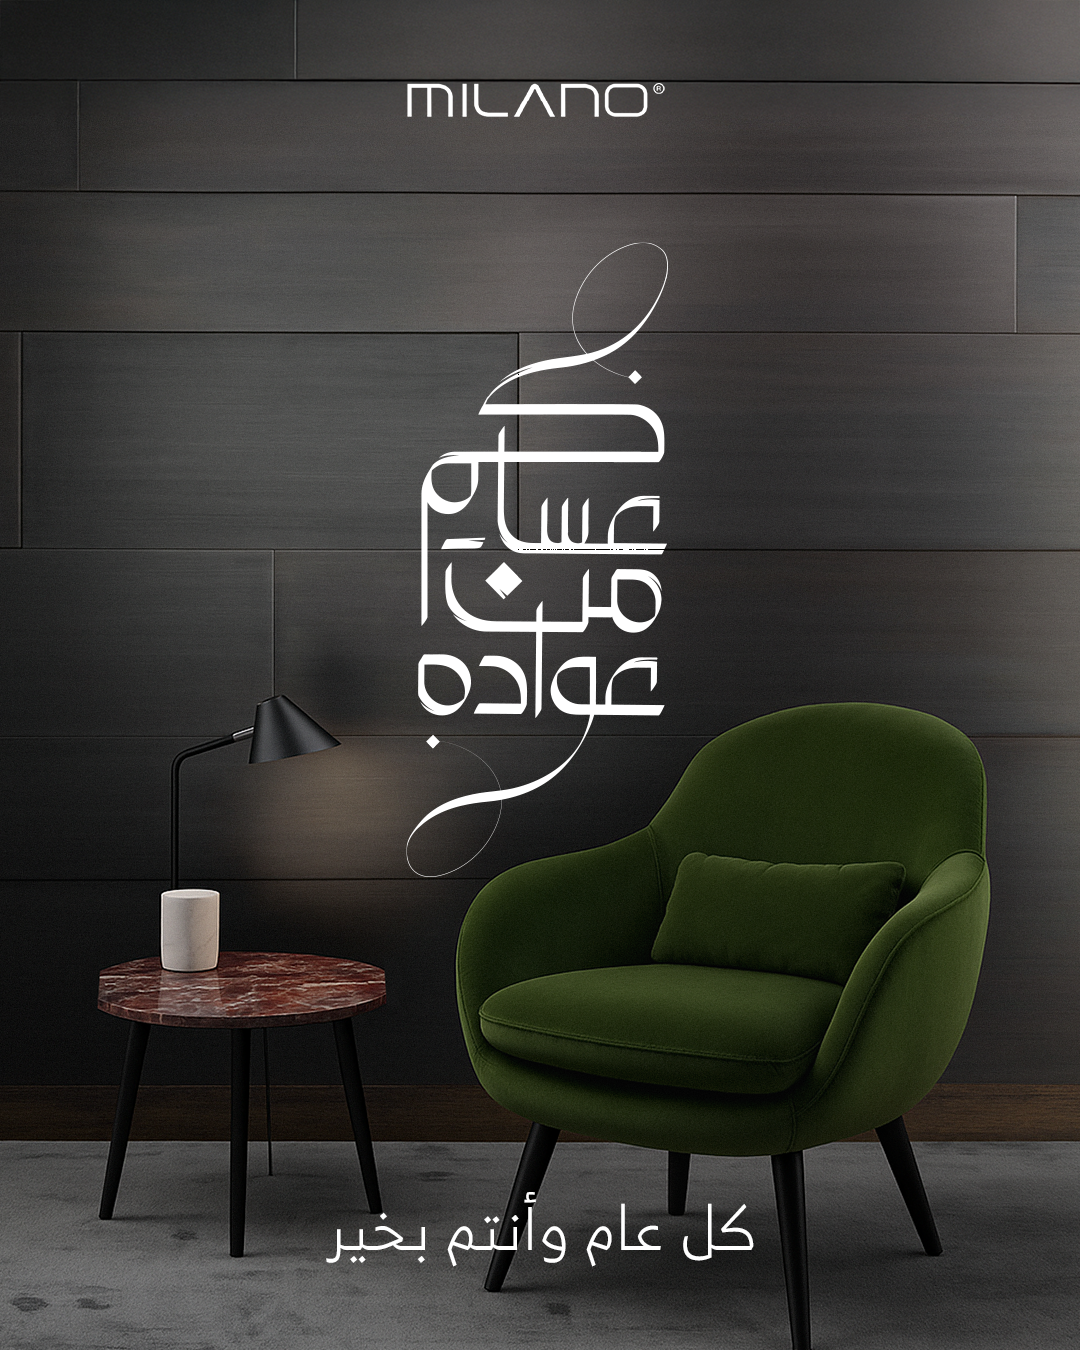
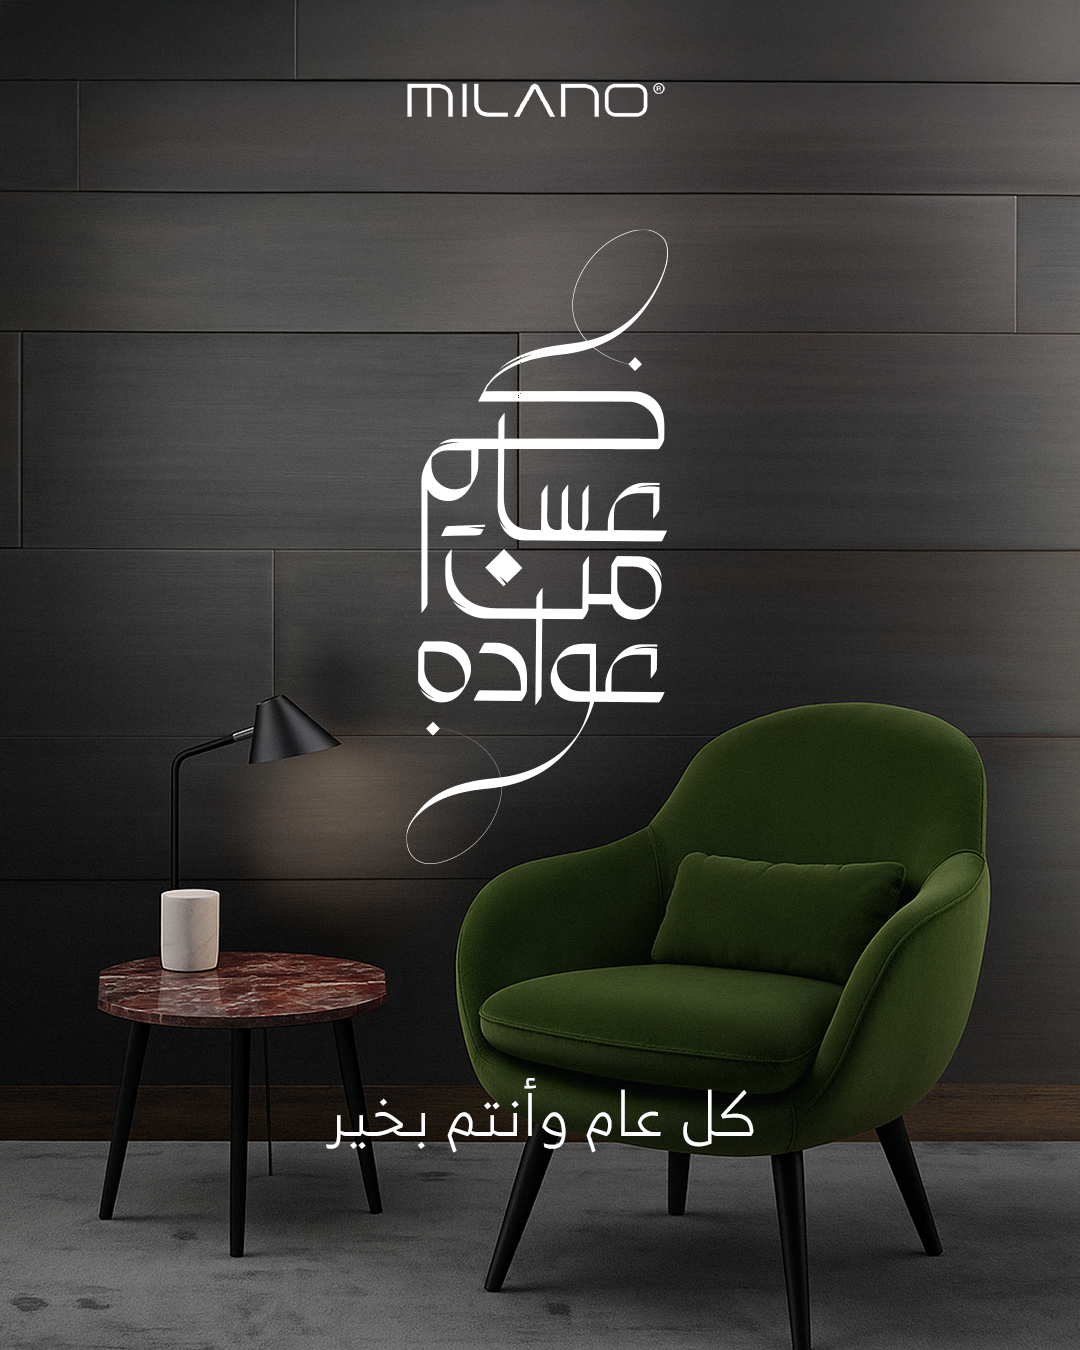
new imgs

diff --git a/assets/js/accenture.js b/assets/js/accenture.js
@@ -52,7 +52,7 @@ downloadCardButton.addEventListener('click', function(e){
 
     // center and make text
     textWidth = (imageWidth - imageWidth / 2)
-    textHeight = (imageHeight - 800); // Adjust this value as needed
+    textHeight = (imageHeight - 650); // Adjust this value as needed
     
     context.fillText(text, textWidth, textHeight);
 

diff --git a/assets/js/marsh.js b/assets/js/marsh.js
@@ -52,7 +52,7 @@ downloadCardButton.addEventListener('click', function(e){
 
     // center and make text
     textWidth = (imageWidth - imageWidth / 2)
-    textHeight = (imageHeight - 620); // Adjust this value as needed
+    textHeight = (imageHeight - 700); // Adjust this value as needed
     
     context.fillText(text, textWidth, textHeight);
 

diff --git a/assets/js/milano.js b/assets/js/milano.js
@@ -52,7 +52,7 @@ downloadCardButton.addEventListener('click', function(e){
 
     // center and make text
     textWidth = (imageWidth - imageWidth / 2)
-    textHeight = (imageHeight - 600); // Adjust this value as needed
+    textHeight = (imageHeight - 700); // Adjust this value as needed
     
     context.fillText(text, textWidth, textHeight);
 

diff --git a/assets/js/plant.js b/assets/js/plant.js
@@ -52,7 +52,7 @@ downloadCardButton.addEventListener('click', function(e){
 
     // center and make text
     textWidth = (imageWidth - imageWidth / 2)
-    textHeight = (imageHeight - 600); // Adjust this value as needed
+    textHeight = (imageHeight - 700); // Adjust this value as needed
     
     context.fillText(text, textWidth, textHeight);
 

diff --git a/assets/js/slic.js b/assets/js/slic.js
@@ -52,7 +52,7 @@ downloadCardButton.addEventListener('click', function(e){
 
     // center and make text
     textWidth = (imageWidth - imageWidth / 2)
-    textHeight = (imageHeight - 600); // Adjust this value as needed
+    textHeight = (imageHeight - 700); // Adjust this value as needed
     
     context.fillText(text, textWidth, textHeight);
 

diff --git a/assets/js/tamimi.js b/assets/js/tamimi.js
@@ -52,7 +52,7 @@ downloadCardButton.addEventListener('click', function(e){
 
     // center and make text
     textWidth = (imageWidth - imageWidth / 2)
-    textHeight = (imageHeight - 600); // Adjust this value as needed
+    textHeight = (imageHeight - 680); // Adjust this value as needed
     
     context.fillText(text, textWidth, textHeight);
 

diff --git a/assets/js/adnoc.js b/assets/js/adnoc.js
@@ -52,7 +52,7 @@ downloadCardButton.addEventListener('click', function(e){
 
     // center and make text
     textWidth = (imageWidth - imageWidth / 2)
-    textHeight = (imageHeight - 820)
+    textHeight = (imageHeight - 650)
     
     context.fillText(text, textWidth, textHeight);
 

diff --git a/assets/js/alrugaib.js b/assets/js/alrugaib.js
@@ -52,7 +52,7 @@ downloadCardButton.addEventListener('click', function(e){
 
     // center and make text
     textWidth = (imageWidth - imageWidth / 2)
-    textHeight = (imageHeight - 680)
+    textHeight = (imageHeight - 750)
     
     context.fillText(text, textWidth, textHeight);
 

diff --git a/assets/js/bci.js b/assets/js/bci.js
@@ -52,7 +52,7 @@ downloadCardButton.addEventListener('click', function(e){
 
     // center and make text
     textWidth = (imageWidth - imageWidth / 2)
-    textHeight = (imageHeight - 930)
+    textHeight = (imageHeight - 900)
     
     context.fillText(text, textWidth, textHeight);
 

diff --git a/assets/js/zamil.js b/assets/js/zamil.js
@@ -52,7 +52,7 @@ downloadCardButton.addEventListener('click', function(e){
 
     // center and make text
     textWidth = (imageWidth - imageWidth / 2)
-    textHeight = (imageHeight - 600)
+    textHeight = (imageHeight - 700)
     
     context.fillText(text, textWidth, textHeight);
 

diff --git a/assets/js/alrashed.js b/assets/js/alrashed.js
@@ -48,7 +48,7 @@ downloadCardButton.addEventListener('click', function(e){
     context.font = "40pt GESSTwoLight";
 
     // text color
-    context.fillStyle = 'white';
+    context.fillStyle = 'black';
 
     // center and make text
     textWidth = (imageWidth - imageWidth / 2)
